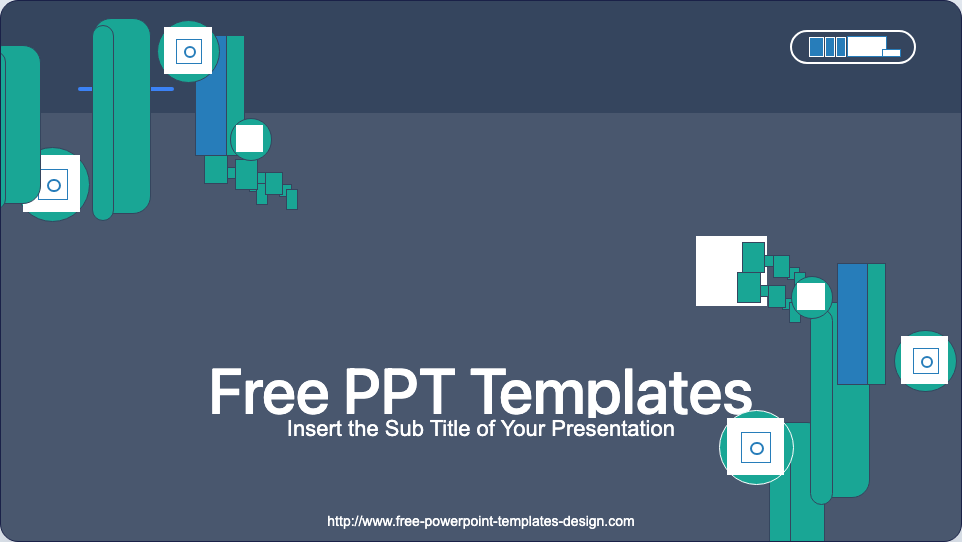
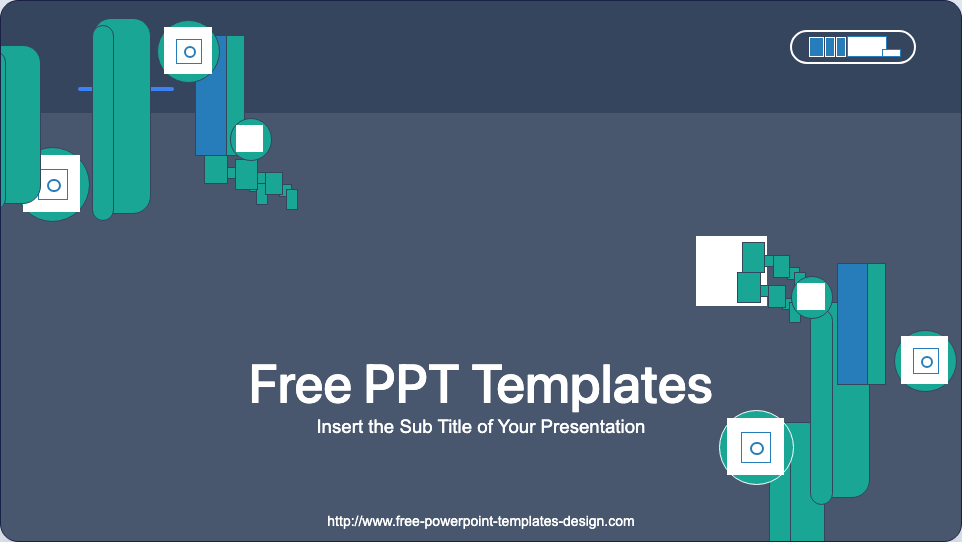
Refresh the final evidence set for the PPT sample fidelity wave
The full verification pass regenerated the benchmark, fixture, attestation, and
PPT sample screenshot artifacts after the latest PPTX render-path iterations.
Commit the refreshed evidence so the repo reflects the current state of the
fidelity wave and the remaining low-score slides are captured in the durable
reports rather than only in transient local output.

Constraint: Ralph completion requires versioned evidence artifacts to match the latest verification run
Constraint: The PPT sample screenshot and diff reports are part of the proof surface for this wave, not disposable outputs
Rejected: Leave regenerated artifacts unstaged after the final verification run | the repository would remain dirty and the evidence set would drift from the tested state
Rejected: Revert the generated artifacts to earlier outputs | that would discard the freshest picture of current fidelity progress
Confidence: high
Scope-risk: narrow
Reversibility: clean
Directive: Final verification for PPT fidelity work must end with the evidence artifacts committed before sign-off review
Tested: npm test; npm run typecheck; npm run lint; npm run build; npm run bench; npm run quality:fixtures; npm run quality:attestations; npm run quality:artifacts; npm run quality:ppt-samples; npm run quality:ppt-sample-screenshots; git diff --check
Not-tested: Further renderer improvements beyond the current evidence set

Changed region(s): [[0.2183, 0.6494, 0.7796, 0.8266]]

diff --git a/examples/basic/src/main.ts b/examples/basic/src/main.ts
@@ -684,7 +684,7 @@ function enhancePresentationPreview(): void {
       content.style.fontFamily = fontFamily || '';
       content.style.textAlign = textAlign === 'ctr' ? 'center' : textAlign === 'r' ? 'right' : textAlign === 'just' ? 'justify' : 'left';
       if (fontSizePt > 0) {
-        content.style.fontSize = `${Math.max(fontSizePt * 1.18, 14)}px`;
+        content.style.fontSize = `${Math.max(fontSizePt, 14)}px`;
       }
       if (shape.dataset.fontBold === 'true') {
         content.style.fontWeight = '700';
@@ -711,6 +711,10 @@ function enhancePresentationPreview(): void {
     const heightRatio = height / cy;
     if (topRatio < 0.18 && widthRatio > 0.35) {
       shape.classList.add('kind-title', 'is-heading');
+      shape.style.overflow = 'visible';
+      if (content && !textAlign) {
+        content.style.textAlign = 'center';
+      }
     } else if (widthRatio > 0.22 && heightRatio > 0.12) {
       shape.classList.add('kind-body', 'is-card');
       shape.style.setProperty('--accent', accentPalette[index % accentPalette.length]);

diff --git a/docs/quality/benchmark-baseline.md b/docs/quality/benchmark-baseline.md
@@ -6,18 +6,18 @@ Latest benchmark summary generated from `benchmarks/reports/latest-benchmark-res
 
 | Label | Open ms | Parse ms | Render ms | Serialize ms | Output bytes | HTML length |
 | --- | ---: | ---: | ---: | ---: | ---: | ---: |
-| docx-micro | 3.973 | 0.508 | 0.146 | 6.14 | 889 | 228 |
-| xlsx-micro | 10.09 | 0.512 | 0.201 | 0.877 | 1776 | 187 |
-| pptx-micro | 11.228 | 0.446 | 0.114 | 0.544 | 1584 | 311 |
+| docx-micro | 4.292 | 0.52 | 0.223 | 6.416 | 889 | 228 |
+| xlsx-micro | 10.606 | 0.583 | 0.177 | 0.897 | 1776 | 187 |
+| pptx-micro | 11.787 | 0.673 | 0.147 | 0.567 | 1584 | 373 |
 
 
 ## Representative
 
 | Label | Open ms | Parse ms | Render ms | Serialize ms | Output bytes | HTML length |
 | --- | ---: | ---: | ---: | ---: | ---: | ---: |
-| docx-representative-styled | 0.409 | 0.256 | 0.012 | 0.256 | 1527 | 293 |
-| xlsx-representative-structured | 0.293 | 0.285 | 0.017 | 0.502 | 1683 | 420 |
-| xlsx-representative-charted | 0.514 | 2.955 | 0.056 | 1.363 | 4230 | 1772 |
-| xlsx-representative-bubble | 0.401 | 1.521 | 0.192 | 0.85 | 3078 | 450 |
-| pptx-representative-inherited | 0.527 | 0.53 | 0.013 | 0.625 | 3931 | 659 |
+| docx-representative-styled | 0.251 | 0.217 | 0.011 | 0.23 | 1527 | 293 |
+| xlsx-representative-structured | 0.177 | 0.23 | 0.012 | 0.418 | 1683 | 420 |
+| xlsx-representative-charted | 0.619 | 3.064 | 0.19 | 1.793 | 4230 | 1772 |
+| xlsx-representative-bubble | 0.377 | 0.427 | 0.017 | 0.681 | 3078 | 450 |
+| pptx-representative-inherited | 0.386 | 0.458 | 0.015 | 0.591 | 3931 | 721 |
 
